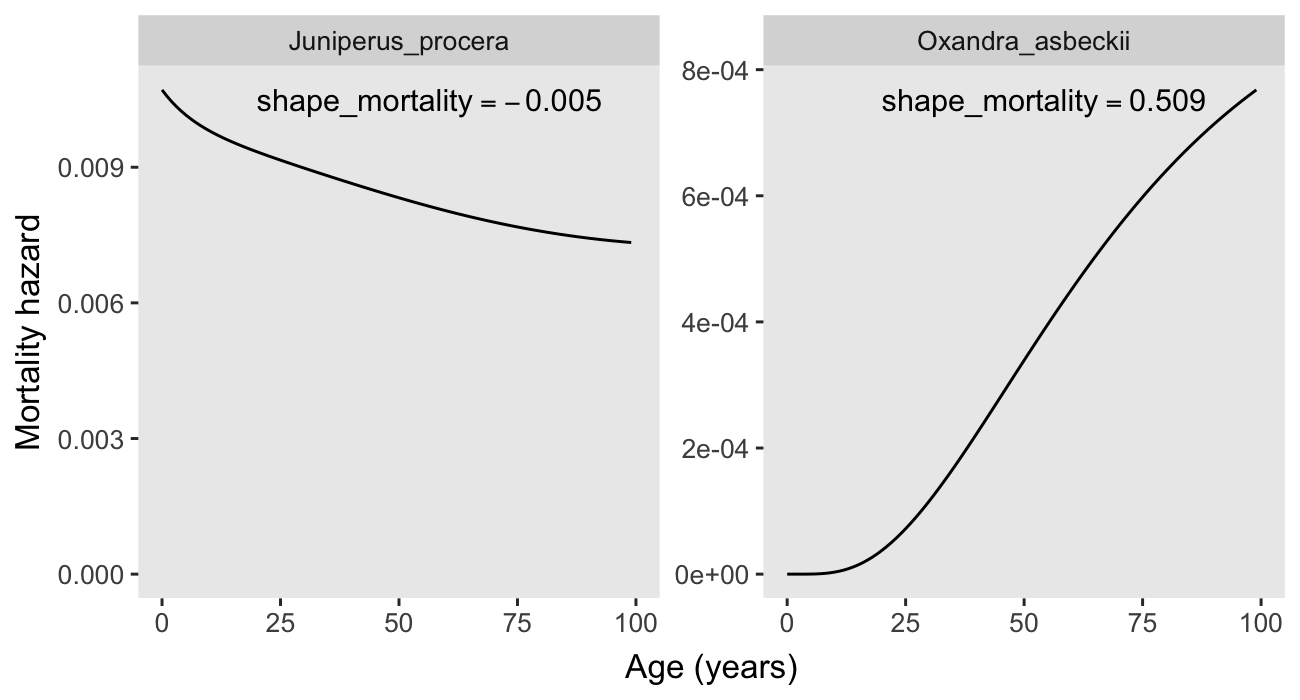
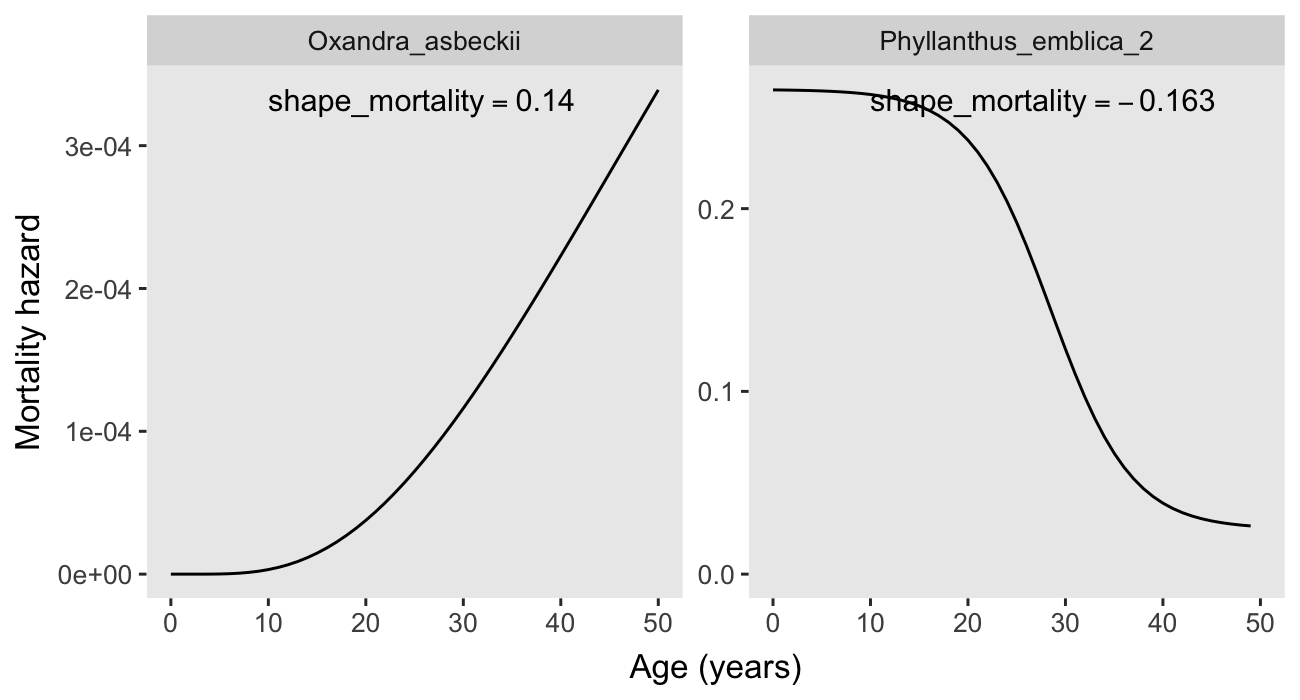
change to shape_surv and limit to qsd

diff --git a/shape-mortality.md b/shape-mortality.md
@@ -11,7 +11,6 @@ Preliminaries
 #### Install required packages
 
 ``` r
-devtools::install_github("jschoeley/pash")
 devtools::install_github("jonesor/Rcompadre")
 devtools::install_github("patrickbarks/Rage", ref = "devel")
 install.packages("tidyverse")
@@ -22,29 +21,18 @@ install.packages("tidyverse")
 ``` r
 library(Rcompadre)
 library(Rage)
-library(pash)
 library(tidyverse)
 ```
 
-#### Function to calculate the shape of a mortality trajectory
-
-The life table coefficient of variation is one way to measure the 'shape' of a mortality trajectory. Values greater than zero indicate that mortality tends to increase with age (i.e. senescence), whereas values less than zero indicate that mortality tends to decline with age (i.e. negative senescence).
+#### Helper functions
 
 ``` r
-# calculate life table coefficient of variation
-shape_mortality <- function(matU, startLife, first_rep, N = 1000) {
-  lx <- mpm_to_lx(matU, startLife = startLife, N = N)
-  xmax <- max(which(lx > 1e-07))
-  if ((xmax - first_rep) < 5) {
-    return(NA_real_)
-  } else {
-    lx <- lx[first_rep:xmax]
-  }
-  x <- seq_along(lx) - 1
-  ps <- try(pash::Inputlx(x, lx), silent = TRUE)
-  if (class(ps) == 'try-error') return(NA_real_)
-  shape <- pash::GetShape(ps, type = 'cv', harmonized = TRUE)
-  return(shape)
+# subset lx trajectory to range t1:t2 (where t1 and t2 are the age of first
+#  repro and time to quasi-stable distribution, respectively)
+lx_sub <- function(lx, t1, t2) {
+  lx <- lx[t1:t2] / lx[t1]
+  lx <- lx[lx > 0]
+  return(lx)
 }
 ```
 
@@ -94,36 +82,44 @@ comp_shape <- comp_mean %>%
   mutate(check_zero_F = map_lgl(matF, ~ all(.x == 0))) %>% 
   filter(check_zero_F == FALSE, SurvivalIssue <= 1.0) %>% 
   mutate(start = mpm_first_active(.)) %>% 
+  mutate(perennial = map2_lgl(matU, start, ~ mpm_to_lx(.x, .y, N = 3)[4] > 0)) %>% 
+  filter(perennial == TRUE) %>% 
   mutate(la = pmap_dbl(list(matU, matF, start), mature_age)) %>% 
-  filter(la < 300) %>% 
-  mutate(shape = pmap_dbl(list(matU, start, la), shape_mortality)) %>%
-  mutate(id = as.factor(1:n())) %>% 
-  filter(!is.na(shape))
+  mutate(la = map_int(la, ~ max(as.integer(round(.x, 0)), 1L))) %>% 
+  mutate(q = map2_int(matU, start, ~ qsdConverge(matU = .x, startLife = .y,
+                                                 conv = 0.01, N = 2000))) %>% 
+  mutate(q = ifelse(is.na(q), 2000, q)) %>% 
+  filter(q - la >= 3) %>% 
+  mutate(lx = map2(matU, start, mpm_to_lx, N = 2000)) %>%
+  mutate(lxs = pmap(list(lx, la, q+1), lx_sub)) %>%
+  mutate(lxs_max = map_dbl(lxs, ~ .x[length(.x)])) %>% 
+  mutate(shape = map_dbl(lxs, shape_surv)) %>%
+  mutate(l0 = map2_dbl(matU, start, lifeExpectancy)) %>% 
+  mutate(id = as.factor(1:n()))
 ```
 
 #### Example mortality trajectories
 
-Below I show examples of two mortality trajectories: a trajectory of declining mortality from the coniferous tree species *Juniperus procera*, and a trajectory of increasing mortality from the tropical tree species *Oxandra asbeckii*.
+Below I show examples of two mortality trajectories: a trajectory of declining mortality from the coniferous tree species *Phyllanthus emblica*, and a trajectory of increasing mortality from the tropical tree species *Oxandra asbeckii*.
 
 ``` r
 example <- comp_shape %>%
-  filter(SpeciesAuthor %in% c("Juniperus_procera", "Oxandra_asbeckii")) %>%
-  mutate(age = list(0:100)) %>%
-  mutate(lx = map2(matU, start, mpm_to_lx, N = 500)) %>%
-  mutate(hazard = map2(lx, la, ~ lx_to_hx(.x[.y:(.y+100)]))) %>% 
+  filter(SpeciesAuthor %in% c("Phyllanthus_emblica_2", "Oxandra_asbeckii")) %>%
+  mutate(age = list(0:50)) %>%
+  mutate(hazard = map(lxs, ~ lx_to_hx(.x)[1:51])) %>% 
   CompadreData() %>%
   select(SpeciesAuthor, age, hazard) %>%
   unnest()
 
 example_cv <- comp_shape %>%
-  filter(SpeciesAuthor %in% c("Juniperus_procera", "Oxandra_asbeckii")) %>%
+  filter(SpeciesAuthor %in% c("Phyllanthus_emblica_2", "Oxandra_asbeckii")) %>%
   CompadreData() %>%
   select(SpeciesAuthor, shape) %>%
   mutate(label = paste0("shape_mortality==", formatC(shape, format = "f", digits = 3)))
 
 ggplot(example) +
   geom_line(aes(age, hazard)) +
-  geom_text(data = example_cv, aes(x = 20, y = Inf, label = label),
+  geom_text(data = example_cv, aes(x = 10, y = Inf, label = label),
             hjust = 0, vjust = 1.8, parse = TRUE) +
   facet_wrap(~ SpeciesAuthor, scales = "free_y") +
   expand_limits(y = 0) +
@@ -141,9 +137,7 @@ ggplot(comp_shape, aes(fct_reorder(id, shape))) +
   geom_point(aes(y = shape), size = 2, alpha = 0.5, pch = 21) +
   geom_hline(yintercept = 0, linetype = 2, alpha = 0.5) +
   scale_x_discrete(expand = c(0.015, 0)) +
-  scale_y_continuous(breaks = seq(-5, 1, 1)) +
-  coord_cartesian(ylim = c(-4, 1)) +
-  labs(x = "Species (ranked)", y = "Shape mortality (life table CV)") +
+  labs(x = "Species (ranked)", y = "Shape of mortality distribution") +
   theme(axis.text.x = element_blank(), axis.ticks.x = element_blank())
 ```
 
